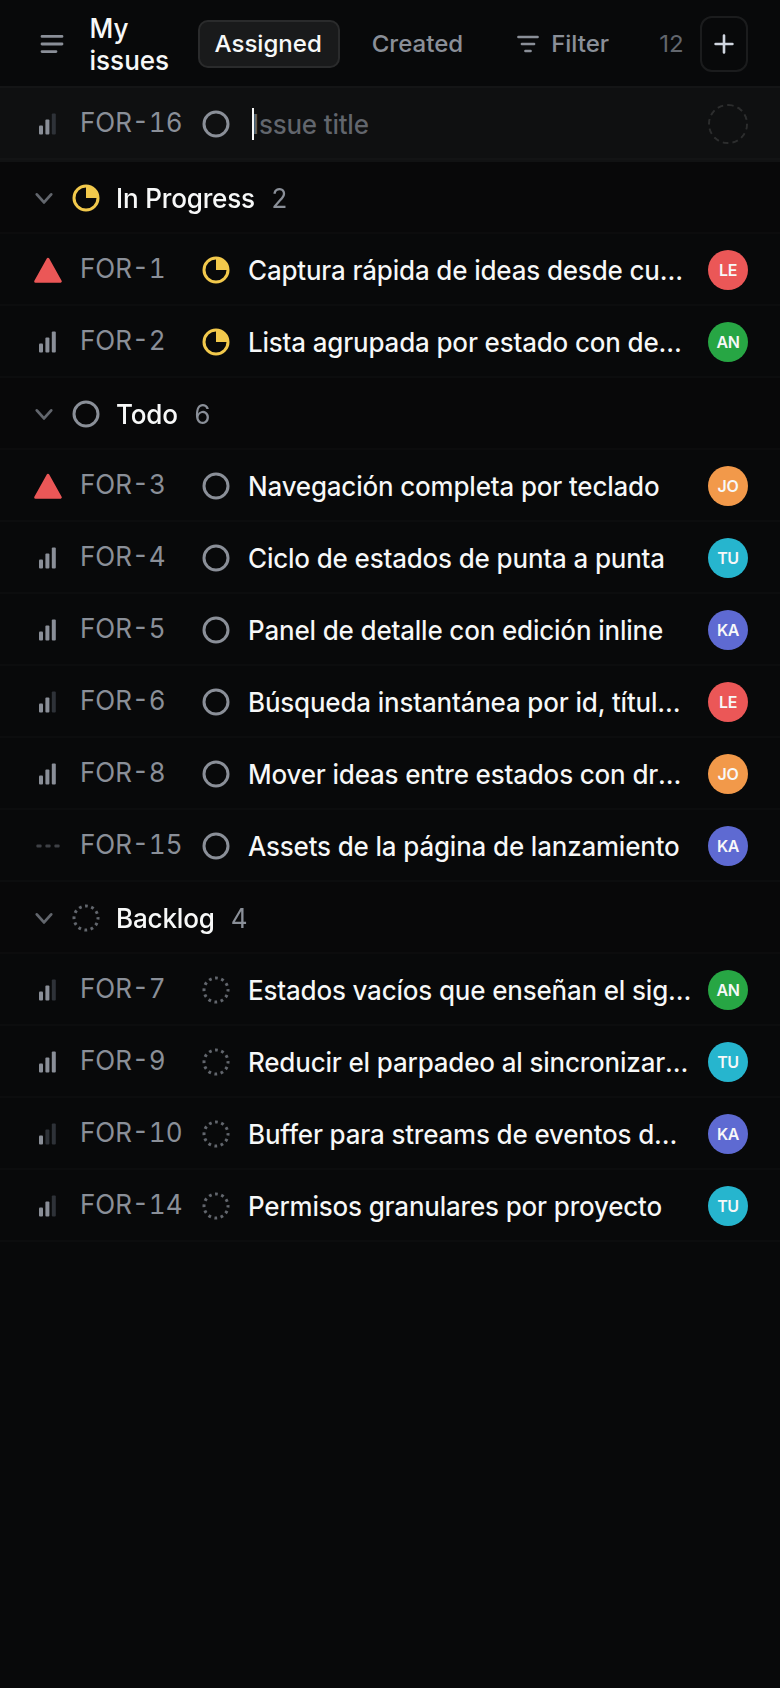
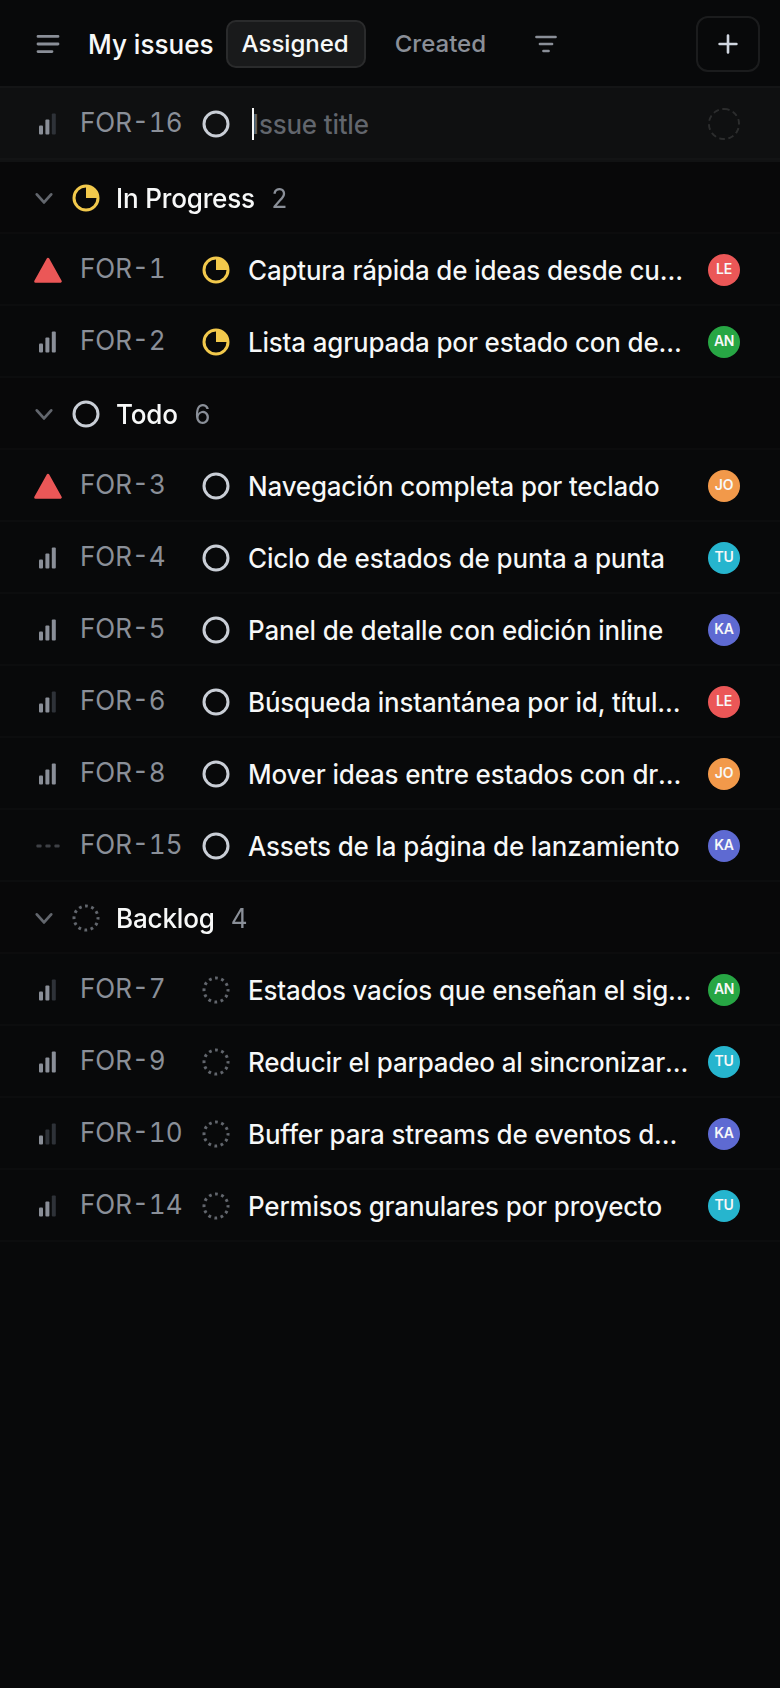
Record 8/8 blind wins and tighten the phone Issues chrome.
Progress now lists WINNER/GAP per piece from the Forge-vs-Linear critics.
Mobile r1 lost on a clipped CTA and dates eating titles; the top bar is
nowrap with an icon-only New control so r2 can be judged fairly.

diff --git a/public/progress.html b/public/progress.html
@@ -25,20 +25,22 @@
   </head>
   <body>
     <main>
-      <div class="kicker">FORGE · LIVE · 8/8</div>
+      <div class="kicker">FORGE · LIVE · 8/9</div>
       <h1>Progreso contra Linear Issues</h1>
       <p class="lede">
-        App en <a href="/">/</a>. Las ocho piezas ganan a ciegas frente a capturas de Linear Issues.
+        App en <a href="/">/</a>. Ocho piezas ganan a ciegas. Móvil entra en ronda 2
+        (ronda 1: CTA recortado y fechas sobre el título).
         <a href="/progress.html">auto-reload</a>
       </p>
-      <div class="card"><strong>Captura rápida</strong><span class="badge win">Forge gana</span><p>Fila FOR-n con barras, estado y título.</p></div>
-      <div class="card"><strong>Lista</strong><span class="badge win">Forge gana</span><p>PR, Working, labels y assignee en cada fila.</p></div>
-      <div class="card"><strong>Teclado</strong><span class="badge win">Forge gana</span><p>C ⌘K / j k Enter Esc Alt+1–5.</p></div>
-      <div class="card"><strong>Estados</strong><span class="badge win">Forge gana</span><p>Tick en el actual; Done hueco si no está seleccionado.</p></div>
-      <div class="card"><strong>Detalle</strong><span class="badge win">Forge gana</span><p>Activity + sidebar de propiedades.</p></div>
-      <div class="card"><strong>Búsqueda</strong><span class="badge win">Forge gana</span><p>Paleta seccionada Commands / Issues.</p></div>
-      <div class="card"><strong>Vacío</strong><span class="badge win">Forge gana</span><p>Empty quieto, CTA + C.</p></div>
-      <div class="card"><strong>Movimiento</strong><span class="badge win">Forge gana</span><p>Drag entre grupos, persistencia IndexedDB.</p></div>
+      <div class="card"><strong>Captura rápida</strong><span class="badge win">Forge gana</span><p>WINNER Forge. GAP: Linear embed no tiene captura en la lista.</p></div>
+      <div class="card"><strong>Lista</strong><span class="badge win">Forge gana</span><p>WINNER Forge. GAP: Linear (1) sin el empaque PR/labels/assignee de Forge.</p></div>
+      <div class="card"><strong>Teclado</strong><span class="badge win">Forge gana</span><p>WINNER Forge. GAP: Linear embed no responde a C/j/k.</p></div>
+      <div class="card"><strong>Estados</strong><span class="badge win">Forge gana</span><p>WINNER Forge. GAP: Done hueco si no es el actual.</p></div>
+      <div class="card"><strong>Detalle</strong><span class="badge win">Forge gana</span><p>WINNER Forge. GAP: el recorte Linear era una lista, no un issue.</p></div>
+      <div class="card"><strong>Búsqueda</strong><span class="badge win">Forge gana</span><p>WINNER Forge. GAP: Linear no ofrece crear desde “no results”.</p></div>
+      <div class="card"><strong>Vacío</strong><span class="badge win">Forge gana</span><p>WINNER Forge. GAP: Linear embed no tiene vacío accionable.</p></div>
+      <div class="card"><strong>Movimiento</strong><span class="badge win">Forge gana</span><p>WINNER Forge. GAP: Linear embed es solo lectura.</p></div>
+      <div class="card"><strong>Móvil</strong><span class="badge go">en crítica</span><p>Ronda 1 Linear. Ronda 2: + icono, fechas fuera, cabecera nowrap.</p></div>
     </main>
   </body>
 </html>

diff --git a/src/App.tsx b/src/App.tsx
@@ -396,10 +396,10 @@ export function App() {
               </button>
               <button className={`chip${query ? " active" : ""}`} type="button" onClick={() => setOverlay("search")}>
                 <FilterIcon size={14} />
-                {query ? query : "Filter"}
+                <span className="filter-label">{query ? query : "Filter"}</span>
               </button>
               <span className="spacer" />
-              <span style={{ color: "var(--text-4)", fontSize: 12 }}>{visible.length}</span>
+              <span className="topbar-count" style={{ color: "var(--text-4)", fontSize: 12 }}>{visible.length}</span>
               <button className="primary" type="button" onClick={openCreate} aria-label="New idea">
                 <PlusIcon size={14} />
                 <span className="primary-label">New idea</span>

diff --git a/src/progressData.ts b/src/progressData.ts
@@ -6,7 +6,8 @@ export type PieceId =
   | "detalle"
   | "busqueda"
   | "vacio"
-  | "movimiento";
+  | "movimiento"
+  | "movil";
 
 export type PieceStatus = "queued" | "building" | "review" | "won" | "lost";
 
@@ -92,5 +93,14 @@ export const PIECES: Piece[] = [
     winner: "ours",
     gap: "Drop persiste status/order; línea índigo inset. Linear embed es read-only.",
     round: 1,
+  },
+  {
+    id: "movil",
+    title: "Móvil",
+    brief: "390px: CTA icono, sin fechas tapando el título, avatares.",
+    status: "review",
+    winner: null,
+    gap: "Ronda 1 Linear: CTA recortado y fechas comiendo el título. Ronda 2: + icono, fechas ocultas, cabecera nowrap.",
+    round: 2,
   },
 ];

diff --git a/src/styles.css b/src/styles.css
@@ -214,6 +214,7 @@ button {
   margin: 0;
   font-size: 13px;
   font-variation-settings: "wght" 510;
+  white-space: nowrap;
 }
 
 .chip {
@@ -1283,6 +1284,19 @@ button {
     width: 32px;
     padding: 0;
     justify-content: center;
+  }
+  .filter-label,
+  .topbar-count {
+    display: none;
+  }
+  .topbar {
+    padding: 0 10px;
+    gap: 6px;
+  }
+  .owner {
+    width: 16px;
+    height: 16px;
+    font-size: 7px;
   }
   .detail-shell {
     grid-template-columns: 1fr;
